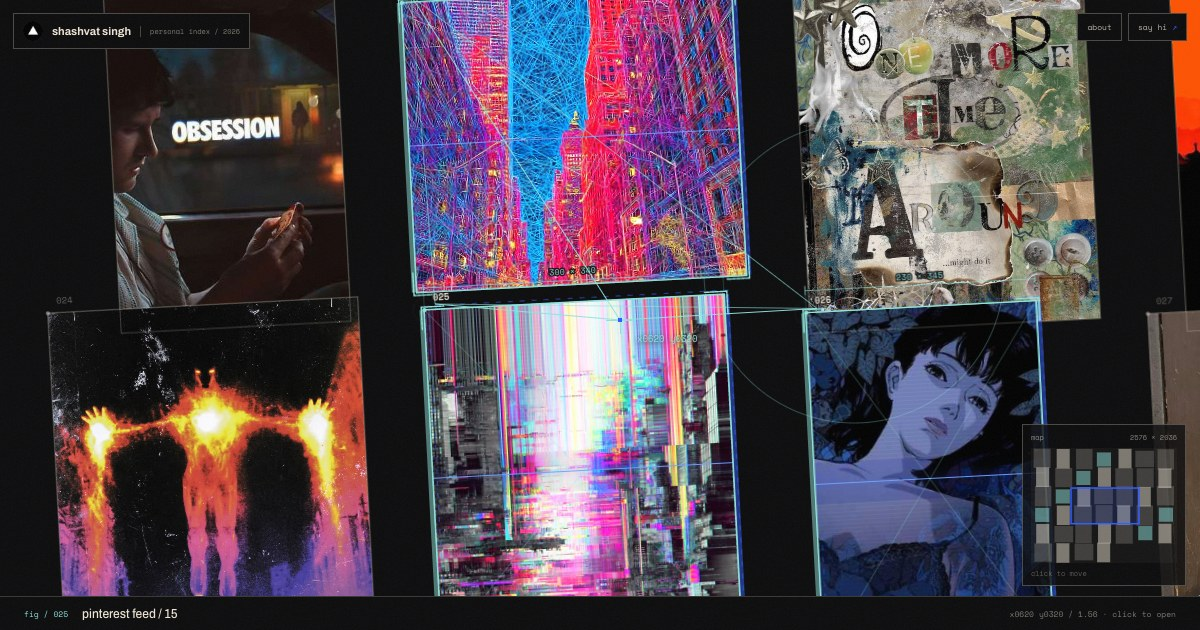
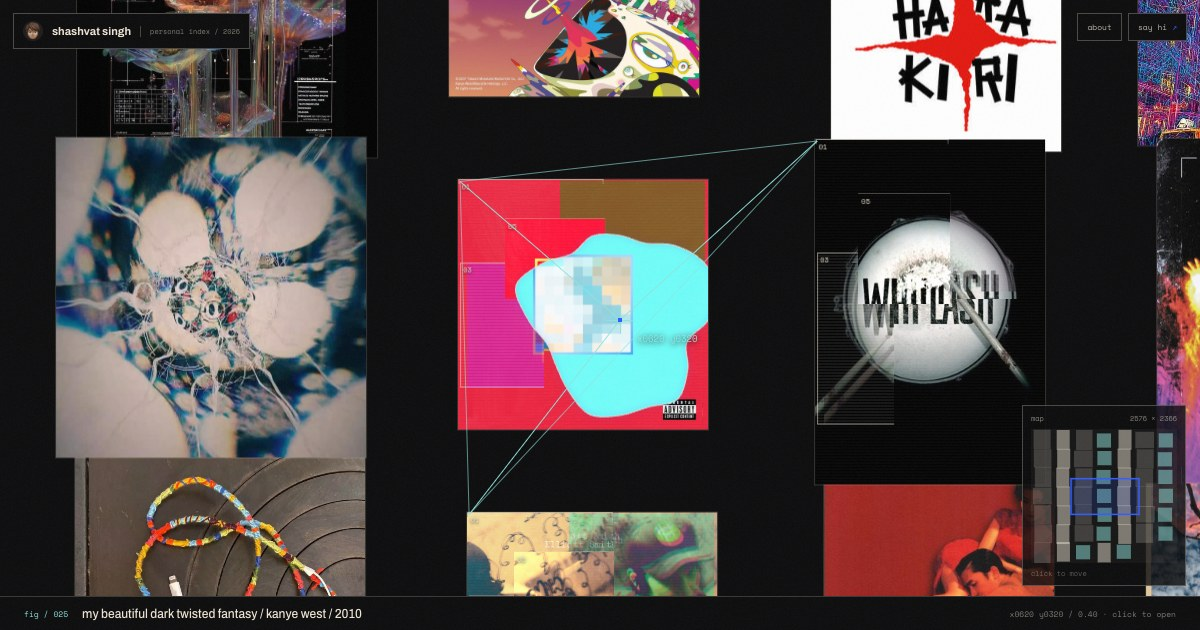
Swap in the 14-album set and update the board to 47 pieces

diff --git a/script.js b/script.js
@@ -2,30 +2,26 @@
 
 (() => {
   const NS = "http://www.w3.org/2000/svg";
-  const MAP_H = 79;
+  const MAP_H = 92;
   const WORLD_W = 2576;
-  const WORLD_H = 2036;
+  const WORLD_H = 2366;
 
   const rawItems = [
     { src: "pin-01", label: "pinterest feed / 01", alt: "green tree swirling into a spiral", x: 40, y: 60, w: 280, h: 380, r: -2 },
     { src: "poster-past-lives", label: "past lives / 2023", alt: "past lives film poster", x: 340, y: 90, w: 230, h: 345, r: 1.5 },
     { src: "pin-03", label: "pinterest feed / 03", alt: "power line drawn in white on blue", x: 590, y: 40, w: 300, h: 400, r: -1 },
-    { src: "cover-loss-of-life", label: "loss of life / mgmt / 2024", alt: "mgmt, loss of life album cover", x: 910, y: 120, w: 250, h: 250, r: -2.5 },
     { src: "pin-05", label: "pinterest feed / 05", alt: "purple glitched figure in the dark", x: 1190, y: 60, w: 310, h: 370, r: 2 },
     { src: "poster-babylon", label: "babylon / 2022", alt: "babylon film poster", x: 1520, y: 70, w: 230, h: 345, r: -1 },
     { src: "pin-06", label: "pinterest feed / 06", alt: "radiohead ok computer collage", x: 1780, y: 40, w: 330, h: 420, r: 1.5 },
     { src: "pin-08", label: "pinterest feed / 08", alt: "neon pink flowers on black", x: 2140, y: 90, w: 220, h: 330, r: -2 },
     { src: "pin-07", label: "pinterest feed / 07", alt: "chessboard seen from above", x: 60, y: 480, w: 290, h: 330, r: 2 },
-    { src: "cover-bully", label: "bully / ye / 2026", alt: "ye, bully album cover", x: 380, y: 500, w: 250, h: 250, r: -1.5 },
     { src: "pin-09", label: "pinterest feed / 09", alt: "rainbow glitch collage", x: 660, y: 450, w: 330, h: 330, r: 1 },
     { src: "poster-12-angry-men", label: "12 angry men / 1957", alt: "12 angry men film poster", x: 1030, y: 460, w: 230, h: 345, r: -2 },
     { src: "pin-10", label: "pinterest feed / 10", alt: "jellyfish in dark water", x: 1290, y: 440, w: 290, h: 390, r: 2 },
     { src: "pin-12", label: "pinterest feed / 12", alt: "neon tokyo street at night", x: 1620, y: 470, w: 310, h: 380, r: -1 },
-    { src: "cover-the-mountain", label: "the mountain / gorillaz / 2026", alt: "gorillaz, the mountain album cover", x: 1970, y: 500, w: 250, h: 250, r: 2 },
     { src: "pin-11", label: "pinterest feed / 11", alt: "torn paper collage with type", x: 40, y: 880, w: 330, h: 310, r: -1 },
     { src: "poster-trainspotting", label: "trainspotting / 1996", alt: "trainspotting film poster", x: 400, y: 870, w: 230, h: 345, r: 2 },
     { src: "pin-13", label: "pinterest feed / 13", alt: "black and white flowers", x: 660, y: 890, w: 290, h: 370, r: 1 },
-    { src: "cover-reality-awaits", label: "reality awaits / the strokes / 2026", alt: "the strokes, reality awaits album cover", x: 1000, y: 920, w: 250, h: 250, r: -2.5 },
     { src: "pin-14", label: "pinterest feed / 14", alt: "two figures with burning eyes", x: 1290, y: 870, w: 290, h: 370, r: -1.5 },
     { src: "pin-15", label: "pinterest feed / 15", alt: "vertical glitch bands", x: 1620, y: 890, w: 330, h: 300, r: 2 },
     { src: "pin-16", label: "pinterest feed / 16", alt: "wired earbuds on a dark surface", x: 1990, y: 870, w: 290, h: 350, r: -1 },
@@ -44,8 +40,20 @@
     { src: "poster-another-round", label: "another round / 2020", alt: "another round film poster", x: 3050, y: 500, w: 230, h: 345, r: 0 },
     { src: "poster-the-departed", label: "the departed / 2006", alt: "the departed film poster", x: 2450, y: 860, w: 230, h: 345, r: -2 },
     { src: "poster-the-banshees-of-inisherin", label: "the banshees of inisherin / 2022", alt: "the banshees of inisherin film poster", x: 2750, y: 840, w: 230, h: 345, r: 0 },
-    { src: "cover-perhaps", label: "perhaps / guns n' roses / 2023", alt: "guns n' roses, perhaps single cover", x: 3050, y: 120, w: 250, h: 250, r: -1.5 },
-    { src: "cover-the-general", label: "the general / guns n' roses / 2023", alt: "guns n' roses, the general single cover", x: 3050, y: 420, w: 250, h: 250, r: 2 },
+    { src: "cover-the-new-abnormal", label: "the new abnormal / the strokes / 2020", alt: "the new abnormal album cover", x: 0, y: 0, w: 250, h: 250, r: 0 },
+    { src: "cover-ok-computer", label: "ok computer / radiohead / 1997", alt: "ok computer album cover", x: 0, y: 0, w: 250, h: 250, r: 0 },
+    { src: "cover-in-rainbows", label: "in rainbows / radiohead / 2007", alt: "in rainbows album cover", x: 0, y: 0, w: 250, h: 250, r: 0 },
+    { src: "cover-blonde", label: "blonde / frank ocean / 2016", alt: "blonde album cover", x: 0, y: 0, w: 250, h: 250, r: 0 },
+    { src: "cover-graduation", label: "graduation / kanye west / 2007", alt: "graduation album cover", x: 0, y: 0, w: 250, h: 250, r: 0 },
+    { src: "cover-is-this-it", label: "is this it / the strokes / 2001", alt: "is this it album cover", x: 0, y: 0, w: 250, h: 250, r: 0 },
+    { src: "cover-my-beautiful-dark-twisted-fantasy", label: "my beautiful dark twisted fantasy / kanye west / 2010", alt: "my beautiful dark twisted fantasy album cover", x: 0, y: 0, w: 250, h: 250, r: 0 },
+    { src: "cover-room-on-fire", label: "room on fire / the strokes / 2003", alt: "room on fire album cover", x: 0, y: 0, w: 250, h: 250, r: 0 },
+    { src: "cover-either-or", label: "either/or / elliott smith / 1997", alt: "either/or album cover", x: 0, y: 0, w: 250, h: 250, r: 0 },
+    { src: "cover-808s-and-heartbreak", label: "808s & heartbreak / kanye west / 2008", alt: "808s & heartbreak album cover", x: 0, y: 0, w: 250, h: 250, r: 0 },
+    { src: "cover-ants-from-up-there", label: "ants from up there / black country, new road / 2022", alt: "ants from up there album cover", x: 0, y: 0, w: 250, h: 250, r: 0 },
+    { src: "cover-the-dark-side-of-the-moon", label: "the dark side of the moon / pink floyd / 1973", alt: "the dark side of the moon album cover", x: 0, y: 0, w: 250, h: 250, r: 0 },
+    { src: "cover-the-glow-pt-2", label: "the glow, pt. 2 / the microphones / 2001", alt: "the glow, pt. 2 album cover", x: 0, y: 0, w: 250, h: 250, r: 0 },
+    { src: "cover-bismillah", label: "bismillah / peter cat recording co. / 2019", alt: "bismillah album cover", x: 0, y: 0, w: 250, h: 250, r: 0 },
   ];
   const typeOf = (src) =>
     src.startsWith("poster") ? "poster" : src.startsWith("cover") ? "cover" : "pin";
@@ -54,8 +62,8 @@
   rawItems.forEach((it) => queues[typeOf(it.src)].push(it));
 
   const pattern = [];
-  for (let i = 0; i < 6; i++) pattern.push("pin", "poster", "pin", "cover", "poster", "pin");
-  pattern.push("poster", "pin", "poster");
+  for (let i = 0; i < 6; i++) pattern.push("pin", "poster", "pin", "cover", "poster", "pin", "cover");
+  pattern.push("pin", "poster", "cover", "poster", "cover");
 
   const items = pattern.map((t) => queues[t].shift()).filter(Boolean);
 
@@ -129,12 +137,20 @@
     "poster-the-departed": "https://letterboxd.com/film/the-departed/",
     "poster-another-round": "https://letterboxd.com/film/another-round/",
     "poster-the-banshees-of-inisherin": "https://letterboxd.com/film/the-banshees-of-inisherin/",
-    "cover-loss-of-life": "https://open.spotify.com/album/4436CQF7pmjxkHCaJCGjmt",
-    "cover-the-mountain": "https://open.spotify.com/album/1RvJmGd47lKS4XMXs9j8hD",
-    "cover-bully": "https://open.spotify.com/album/5poA9SAx0Xiz1cf17fWBLS",
-    "cover-reality-awaits": "https://open.spotify.com/album/6x0nmCMjHeuN3rYBmI5Bor",
-    "cover-perhaps": "https://open.spotify.com/album/2CoWZzMwNzNI49Ip5IvSbb",
-    "cover-the-general": "https://open.spotify.com/album/1n3udjedXeuxUh8vU46giM",
+    "cover-the-new-abnormal": "https://open.spotify.com/album/2xkZV2Hl1Omi8rk2D7t5lN",
+    "cover-ok-computer": "https://open.spotify.com/album/6dVIqQ8qmQ5GBnJ9shOYGE",
+    "cover-in-rainbows": "https://open.spotify.com/album/5vkqYmiPBYLaalcmjujWxK",
+    "cover-blonde": "https://open.spotify.com/album/3mH6qwIy9crq0I9YQbOuDf",
+    "cover-graduation": "https://open.spotify.com/album/4SZko61aMnmgvNhfhgTuD3",
+    "cover-is-this-it": "https://open.spotify.com/album/2yNaksHgeMQM9Quse463b5",
+    "cover-my-beautiful-dark-twisted-fantasy": "https://open.spotify.com/album/20r762YmB5HeofjMCiPMLv",
+    "cover-room-on-fire": "https://open.spotify.com/album/3HFbH1loOUbqCyPsLuHLLh",
+    "cover-either-or": "https://open.spotify.com/album/5hryhrT7wEdLnZCbJX9F6L",
+    "cover-808s-and-heartbreak": "https://open.spotify.com/album/3WFTGIO6E3Xh4paEOBY9OU",
+    "cover-ants-from-up-there": "https://open.spotify.com/album/21xp7NdU1ajmO1CX0w2Egd",
+    "cover-the-dark-side-of-the-moon": "https://open.spotify.com/album/4LH4d3cOWNNsVw41Gqt2kv",
+    "cover-the-glow-pt-2": "https://open.spotify.com/album/6QYoRO2sXThCORAifrP4Bl",
+    "cover-bismillah": "https://open.spotify.com/album/3bmnc6GjltS6zD8elSBjCq",
   };
 
   const world = document.querySelector("[data-world]");

diff --git a/index.html b/index.html
@@ -67,8 +67,8 @@
         </header>
 
         <div class="map" data-map>
-          <div class="map__head"><span>map</span><span>2576 × 2036</span></div>
-          <svg class="map__svg" viewBox="0 0 100 79" preserveAspectRatio="none" data-map-svg>
+          <div class="map__head"><span>map</span><span>2576 × 2366</span></div>
+          <svg class="map__svg" viewBox="0 0 100 92" preserveAspectRatio="none" data-map-svg>
             <g data-map-dots></g>
             <rect class="map__view" data-map-view x="0" y="0" width="0" height="0"></rect>
           </svg>

diff --git a/README.md b/README.md
@@ -5,28 +5,31 @@ A single, mouse-panned field of images. Not a career portfolio: the images are t
 ```
 index.html    shell, hud, status, minimap, about strip
 styles.css    board, pieces, scanner, annotation rig, blue accent
-script.js     mixed 39-piece layout, camera, proximity rig, scan, map
-assets/img/   19 pinterest crops, 14 film posters, 6 spotify covers
+script.js     mixed 47-piece layout, camera, proximity rig, glitch, map
+assets/img/   19 pinterest crops, 14 film posters, 14 spotify covers
 ```
 
 ## Images and the mix
 
 - 19 Pinterest pieces: 16 from the home feed (736px) + 3 alternate crops.
-- 14 Letterboxd posters: favourites plus recent five-stars (Past Lives, 12 Angry
-  Men, Babylon, Trainspotting, There Will Be Blood, Whiplash, Perfect Blue, In
-  the Mood for Love, Oldboy, The Departed, Django Unchained, Project Hail Mary,
-  Schindler's List, Obsession).
-- 6 Spotify pieces, all 2023–2026: MGMT *Loss of Life*, Gorillaz *The
-  Mountain*, Ye *Bully*, The Strokes *Reality Awaits*, and the two 2023 GNR
-  singles *Perhaps* and *The General*.
+- 14 Letterboxd posters: Past Lives, 12 Angry Men, Babylon, Trainspotting,
+  Schindler's List, There Will Be Blood, Whiplash, Perfect Blue, In the Mood for
+  Love, Oldboy, The Departed, Harakiri, Another Round, The Banshees of
+  Inisherin.
+- 14 Spotify albums: The Strokes *The New Abnormal*, Radiohead *OK Computer*,
+  Radiohead *In Rainbows*, Frank Ocean *Blonde*, Kanye *Graduation*, The Strokes
+  *Is This It*, Kanye *My Beautiful Dark Twisted Fantasy*, The Strokes *Room On
+  Fire*, Elliott Smith *Either/Or*, Kanye *808s & Heartbreak*, Black Country,
+  New Road *Ants From Up There*, Pink Floyd *The Dark Side of the Moon*, The
+  Microphones *The Glow, Pt. 2*, Peter Cat Recording Co. *Bismillah*.
 
 Pieces are placed on a 7-column mosaic by a repeating mixed sequence
-(pin / poster / pin / cover / poster / pin), so no part of the grid is
-dominated by one source. World: 2576 × 2036.
+(pin / poster / cover / poster / cover inside each row and repeated), so no part
+of the grid is dominated by one source. World: 2576 × 2366.
 
 Every card is a real source link. Posters open Letterboxd, covers open Spotify,
-Pinterest pieces open the Pinterest profile (the home feed does not expose
-individual pin URLs).
+Pinterest pieces open their exact pin where one was resolvable, otherwise the
+profile.
 
 ## The motion
 
@@ -35,12 +38,13 @@ individual pin URLs).
 - The nearest three pieces get the full annotation rig: corner brackets, ghost
   frame, X diagonals, dimension ticks with W × H, anchor dot and ring, numeric
   id, leader lines.
-- Connected images run a scanner: a displaced horizontal slice sweeps the
-  image with a glowing blue line, plus dashed ghost frames and a pulsing anchor
-  ring.
+- Connected images fragment into overlapping offset crops with hue-shifted,
+  scanline-treated patches, and a smooth negative blob that follows the cursor,
+  morphs continuously, and is clipped separately into every card near it — so
+  it creeps in from the edge and can appear on two close cards at once.
 - Cards are JS links rather than anchors, so the browser's URL preview never
   covers the bottom status bar.
-- `prefers-reduced-motion` freezes the camera, scanner, and pulses.
+- `prefers-reduced-motion` freezes the camera and glitch, and hides the blob.
 - Below 900px the plate becomes a two-column mixed grid with the about strip.
 
 ## Run it
